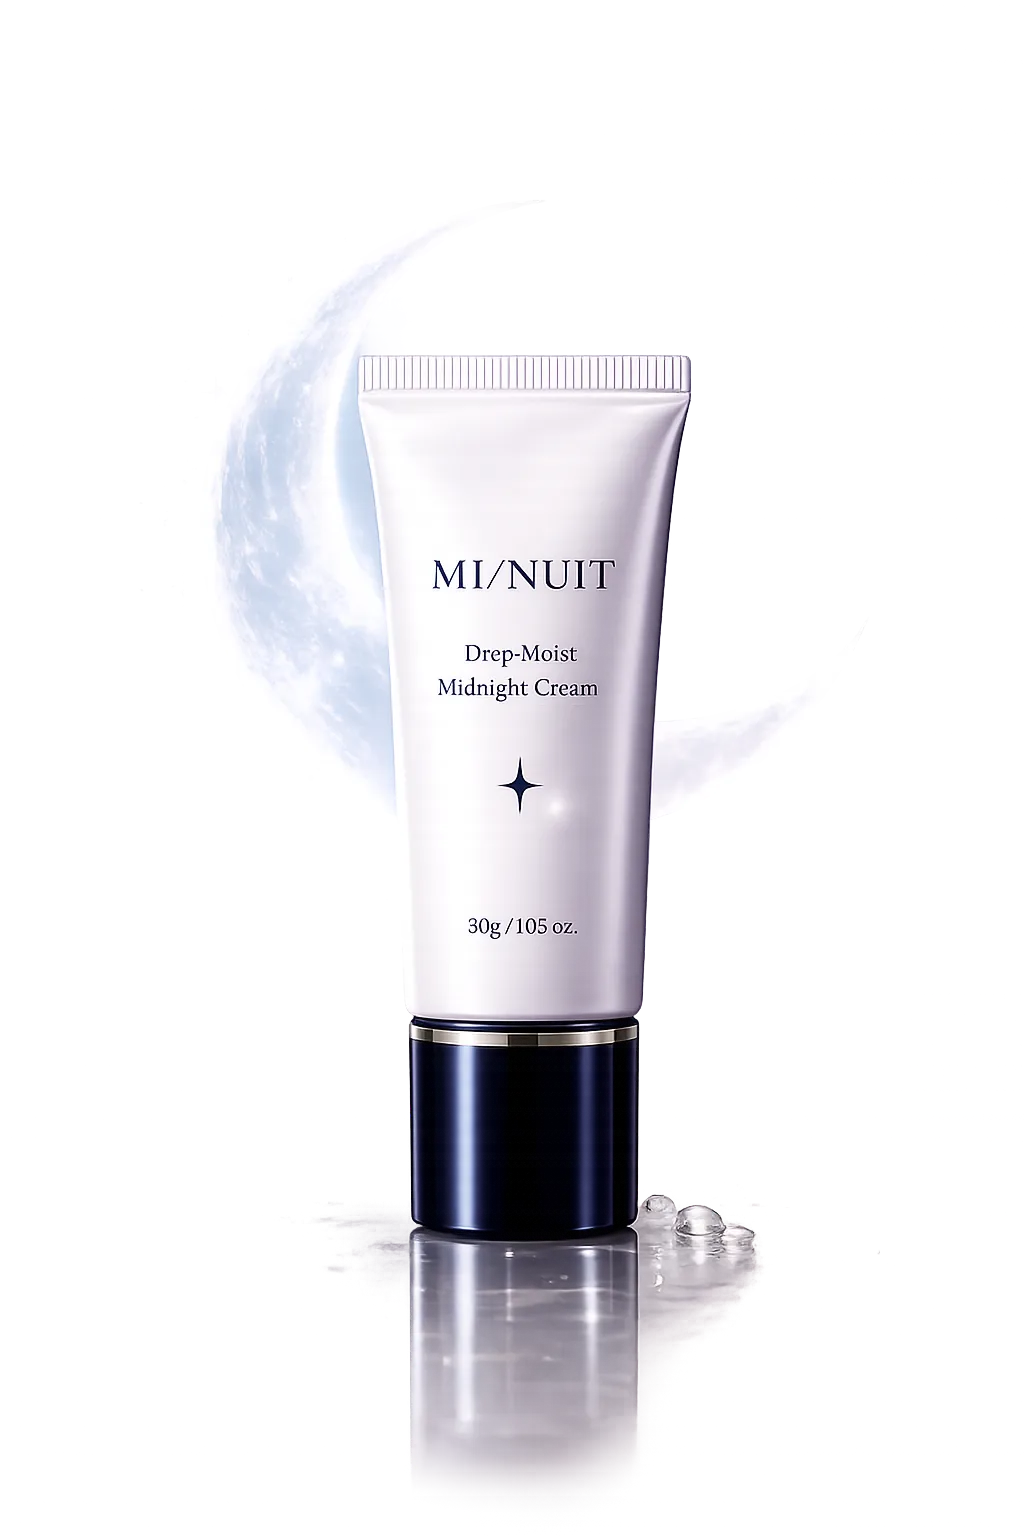
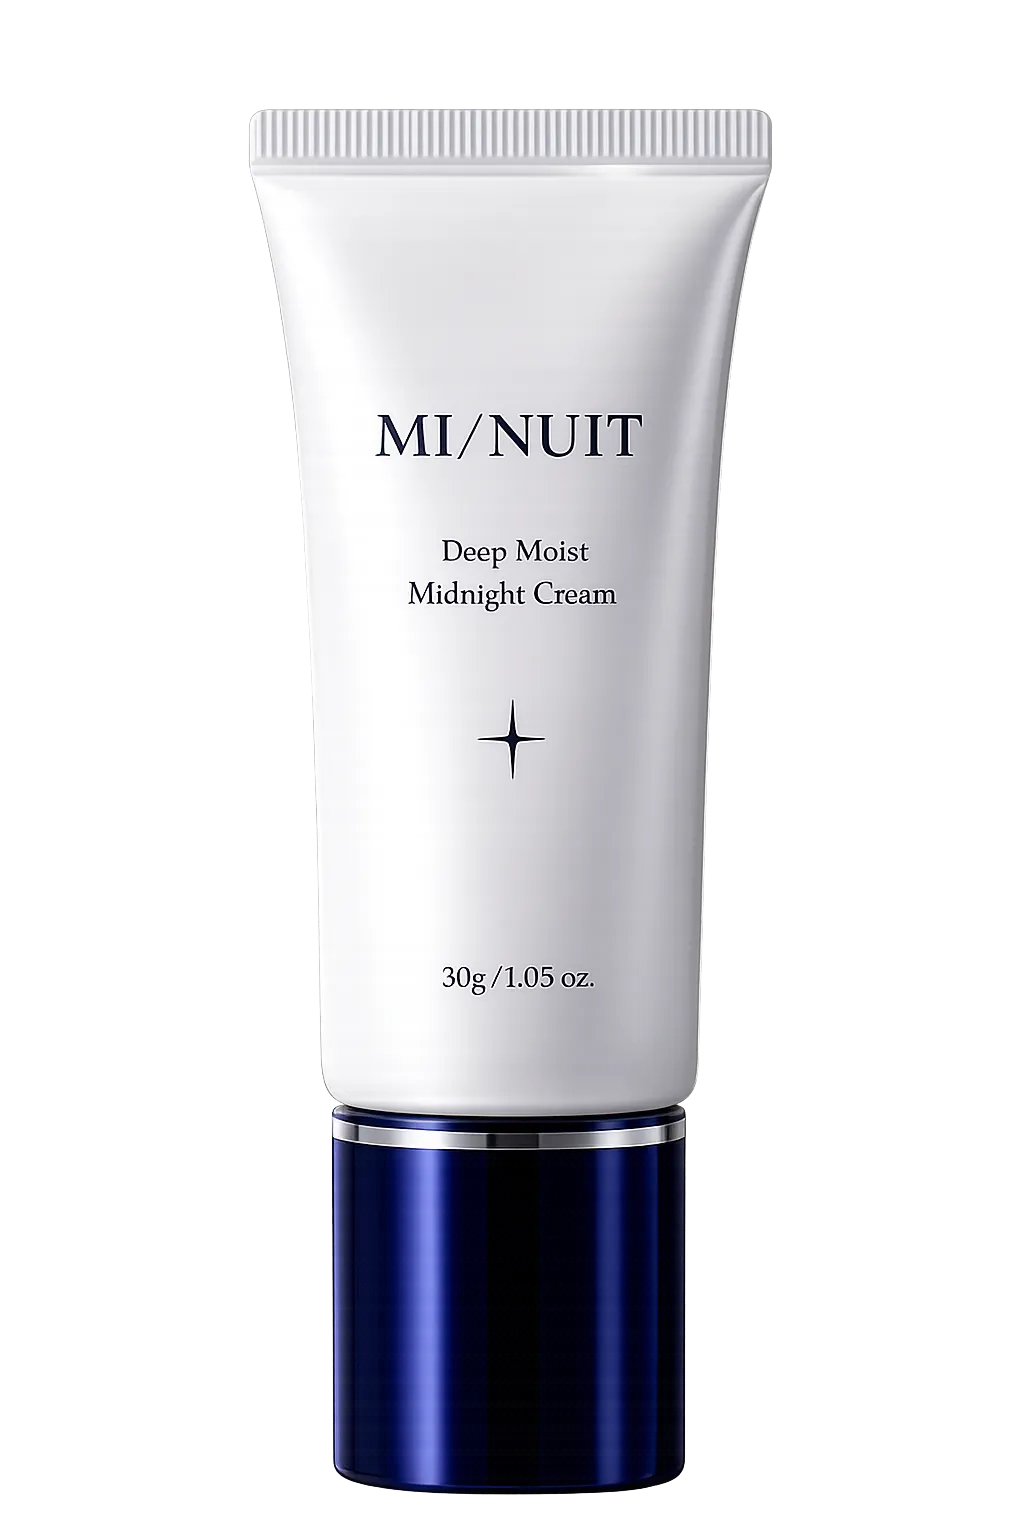
画像取り込み

Changed region(s): [[0.2188, 0.0625, 0.75, 1.0]]

diff --git a/index.html b/index.html
@@ -202,7 +202,7 @@
                             <a href="products.html?id=primer"
                                 class="p-product-card p-product-card--primer">
                                 <div class="p-product-card__image">
-                                    <img src="images/products/primer.webp" alt="化粧下地">
+                                    <img src="images/products/base.webp" alt="化粧下地">
                                 </div>
                                 <h3>化粧下地</h3>
                             </a>
@@ -210,7 +210,7 @@
                             <a href="products.html?id=foundation-liquid"
                                 class="p-product-card p-product-card--liquid">
                                 <div class="p-product-card__image">
-                                    <img src="images/products/foundation-liquid.webp" alt="リキッドファンデーション">
+                                    <img src="images/top/top-foundationL.webp" alt="リキッドファンデーション">
                                 </div>
                                 <h3>リキッドファンデーション</h3>
                             </a>
@@ -227,7 +227,7 @@
                                 class="p-product-card p-product-card--special">
                                 <div class="p-product-card__image p-product-card__image--double">
                                     <img src="images/products/serum.webp" alt="美容液">
-                                    <img src="images/products/cream.webp" alt="保湿クリーム">
+                                    <img src="images/products/cream2.webp" alt="保湿クリーム">
                                 </div>
                                 <div class="p-product-card__content">
                                     <span>Special Care</span>
@@ -238,7 +238,7 @@
                             <a href="products.html?id=foundation-cushion"
                                 class="p-product-card p-product-card--cushion">
                                 <div class="p-product-card__image">
-                                    <img src="images/products/foundation-cushion.webp" alt="クッションファンデ">
+                                    <img src="images/products/foundationC.webp" alt="クッションファンデ">
                                 </div>
                                 <h3>クッションファンデ</h3>
                             </a>

diff --git a/products.html b/products.html
@@ -491,7 +491,7 @@
                                         <a href="product.html?id=midnight-cream" 
                                             class="p-products-card__image-link">
                                             <figure class="p-products-card__image">
-                                                <img src="images/products/midnight-cream.webp" 
+                                                <img src="images/products/Cream.webp" 
                                                     alt="Deep Moist Midnight Cream">
                                             </figure>
                                         </a>

diff --git a/css/products.css b/css/products.css
@@ -263,7 +263,7 @@ body{
     display: flex;
     justify-content: center;
     align-items: center;
-    aspect-ratio: 1 / 1;
+    aspect-ratio: 1/1;
     padding: var(--space-4);
     overflow: hidden;
     background: linear-gradient(
@@ -277,6 +277,7 @@ body{
     display: block;
     margin: auto;
     width: 100%;
+    object-fit: cover;
     max-width: 270px;
     transition: transform .45s ease;
 }

diff --git a/css/top.css b/css/top.css
@@ -332,7 +332,7 @@ Architecture : FLOCSS + BEM */
     width: 100%;
     max-width: 180px;
     height: auto;
-    object-fit: contain;
+    object-fit: cover;
     transition: transform var(--duration-fast1) var(--ease-base),
                 filter var(--duration-fast1) var(--ease-base);
 }

diff --git a/README.md b/README.md
@@ -1,12 +1,20 @@
 # 💄 MI/NUIT - ブランドサイト制作
+![HTML5](https://img.shields.io/badge/HTML5-E34F26?style=for-the-badge&logo=html5&logoColor=white)
+![CSS3](https://img.shields.io/badge/CSS3-1572B6?style=for-the-badge&logo=css3&logoColor=white)
+![JavaScript](https://img.shields.io/badge/JavaScript-F7DF1E?style=for-the-badge&logo=javascript&logoColor=black)
+![Responsive](https://img.shields.io/badge/Responsive-Mobile%20First-22C55E?style=for-the-badge)
+![Swiper.js](https://img.shields.io/badge/Swiper.js-6332F6?style=for-the-badge&logo=swiper&logoColor=white)
+![Git](https://img.shields.io/badge/Git-F05032?style=for-the-badge&logo=git&logoColor=white)
+![GitHub](https://img.shields.io/badge/GitHub-181717?style=for-the-badge&logo=github&logoColor=white)
+![GitHub Pages](https://img.shields.io/badge/GitHub%20Pages-121013?style=for-the-badge&logo=github&logoColor=white)
 
 ## 🌐 Demo
-
+➡ **Live Site**  
 https://inuwanwan-roco.github.io/-3-web-----/
 
 ## 📂 Repository
 
-https://github.com/〇〇/MI-NUIT
+https://github.com/inuwanwan-roco/-3-web-----
 
 ## 📷 Preview
 
@@ -14,9 +22,12 @@ https://github.com/〇〇/MI-NUIT
 
 ## 📖 プロジェクト概要
 
-「**MI/NUIT（ミニュイ）**」は、架空のスキンケア・化粧品のブランドサイトです。
+「**MI/NUIT（ミニュイ）**」
+> 架空の韓国コスメブランド「MI/NUIT」のブランドサイトです。  
+> ブランド設計からデザイン、コーディングまで一貫して制作しました。
 
-ブランドコンセプトからサイト設計、デザイン、コーディングまでを一貫して制作しました。幻想的で高級感のある世界観を表現し、商品の魅力を伝えながら、ユーザーが直感的に商品を探し、購入までスムーズに進めるUI・UXを目指しています。
+幻想的で高級感のある世界観を表現し、商品の魅力を伝えながら、ユーザーが直感的に商品を探し、
+購入までスムーズに進めるUI・UXを目指しています。
 
 ---
 
